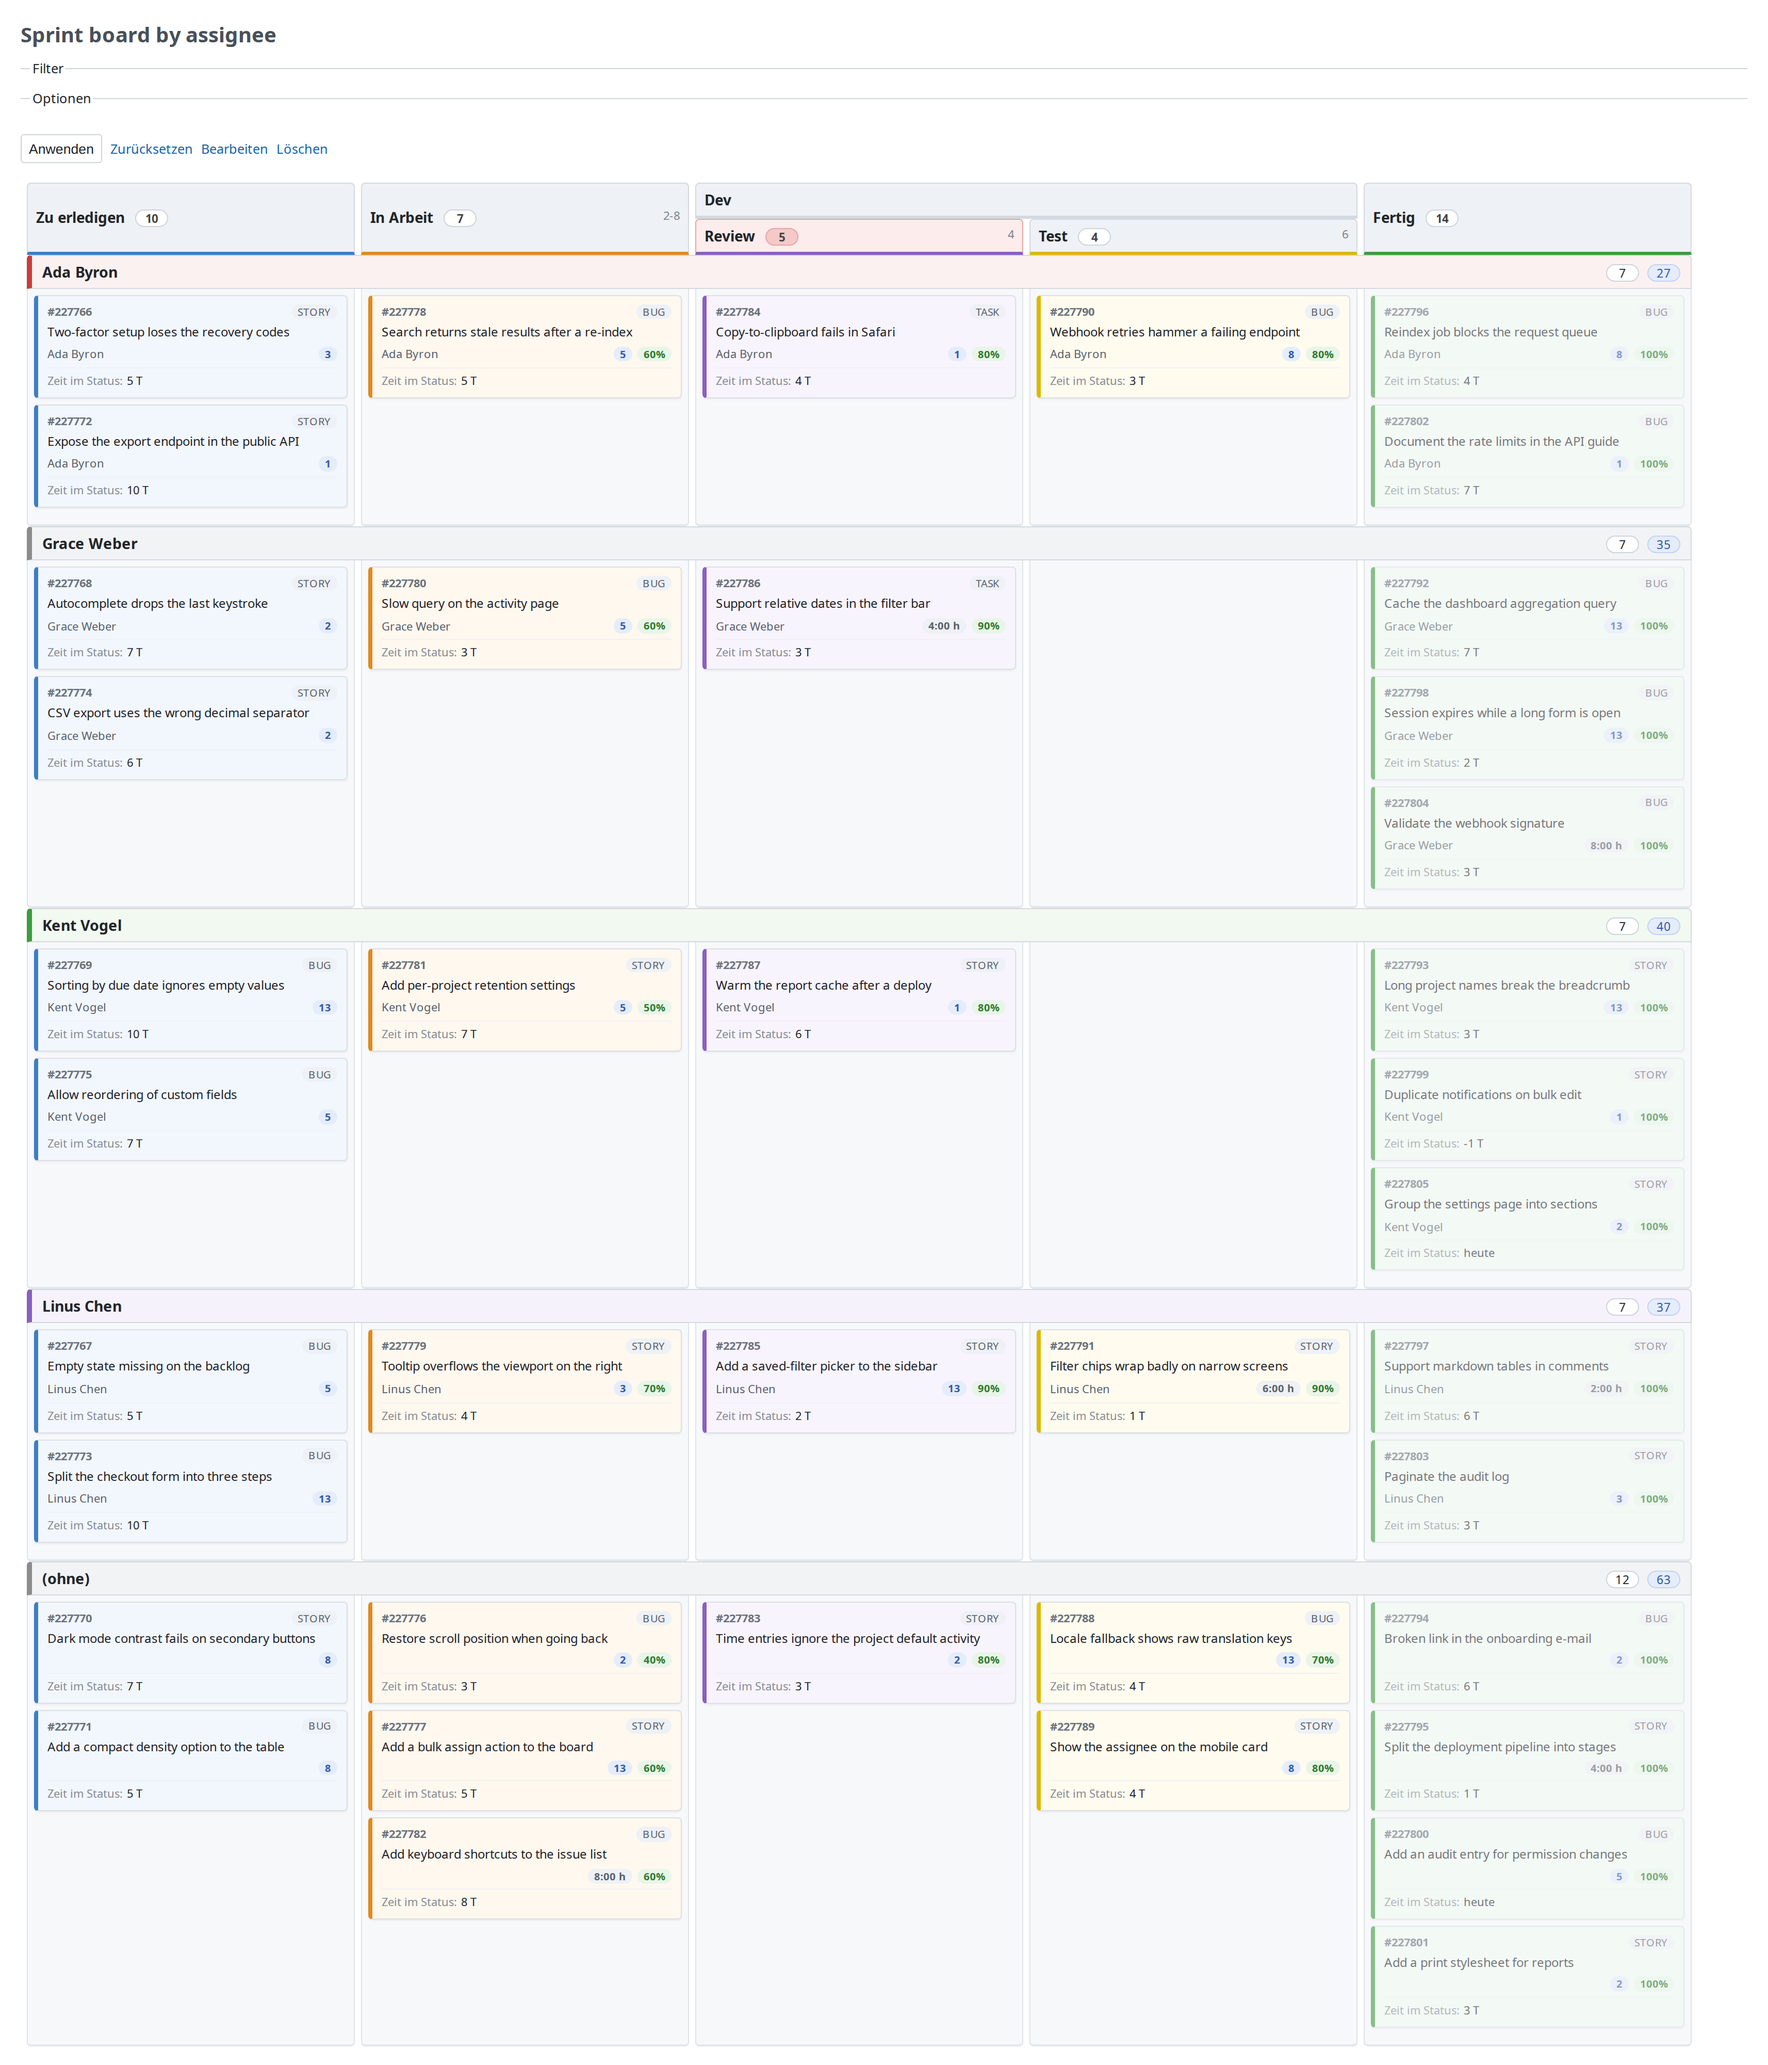
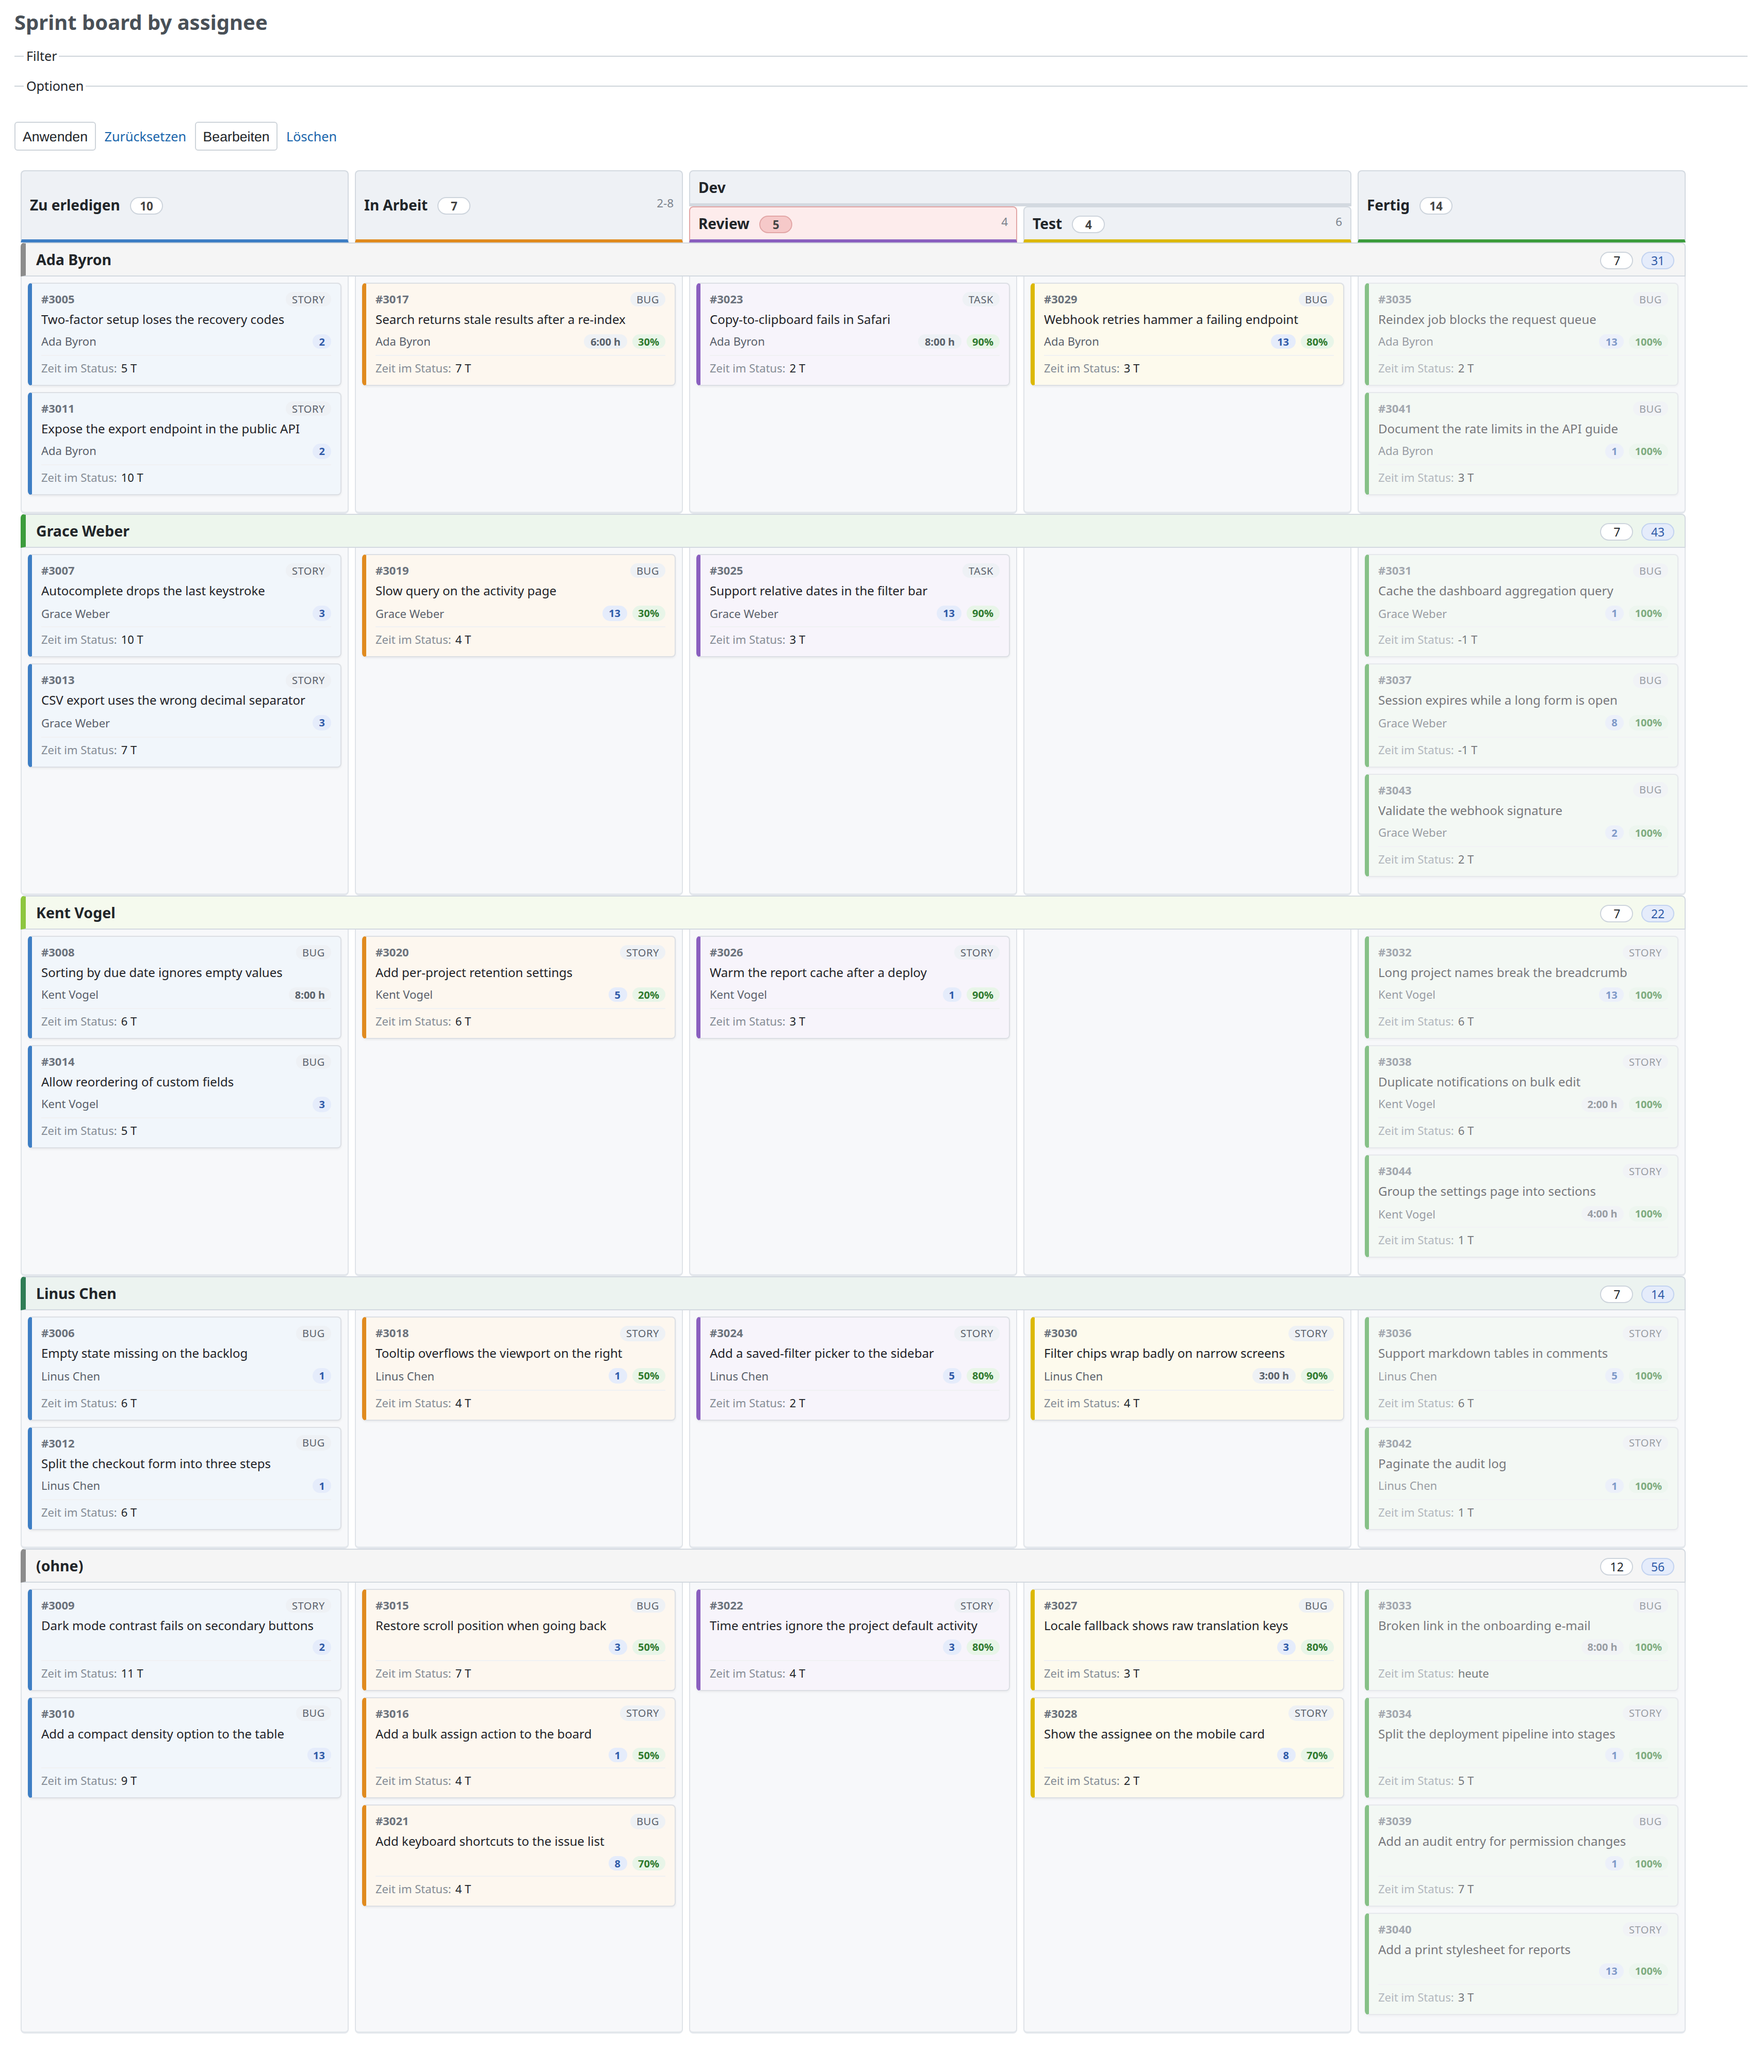
docs: fresh screenshots, including the sprint board
Recaptured against 0.5.0 on a clean demo database, English and German.

- new 11-sprint-board: the board options open on the Sprint selector set to
  "Active sprint" (0.4), placed under the README's sprint-board paragraph
- 01/02/11 boards are captured without the sidebar, so the Done column is
  no longer cut off
- alt texts for 05 (story points) and 06 (burndown start, no sidebar)
  describe the new images

diff --git a/README.de.md b/README.de.md
@@ -99,7 +99,7 @@ Story Points sind eine Spalte der plugineigenen Tabelle, kein benutzerdefinierte
 Ticketformular bietet sie als feste Skala an, direkt neben dem Sprint des Tickets.
 
 ![Ticketformular mit Redmines eigenen Attributfeldern und darunter zwei Feldern des Plugins: ein
-Auswahlfeld Story Points mit dem Wert 5 und ein Auswahlfeld Sprint mit Sprint 24](docs/screenshots/de/05-story-points.png)
+Auswahlfeld Story Points mit dem Wert 2 und ein Auswahlfeld Sprint mit Sprint 24](docs/screenshots/de/05-story-points.png)
 
 ### Sprints
 
@@ -116,6 +116,10 @@ Spalten, Zaehler und Summen umfassen dann nur die Tickets dieses Sprints. Das fu
 per Link — `…/expert_agile/board?set_filter=1&sprint_id=41` oder `sprint_id=active`. Angenommen
 werden nur Sprints, in die das Projekt planen darf; jede andere ID, oder *Aktiver Sprint* ohne
 laufenden Sprint, zeigt ein leeres Board statt aller Tickets.
+
+![Geoeffnete Board-Optionen ueber dem Sprint-Board: Kartenfelder, Darstellung mit der
+Sprint-Auswahl "Aktiver Sprint (automatisch)" und die Statusspalten mit ihren
+WIP-Limits](docs/screenshots/de/11-sprint-board.png)
 
 ### Backlog-Planer
 
@@ -139,9 +143,9 @@ der Kopfzeile](docs/screenshots/de/03-backlog.png)
 Burndown und Burnup rekonstruieren den Ticketverlauf aus den Journalen. Gemessene Linien enden am
 heutigen Tag, die Ideallinie laeuft bis zum Ende des Zeitraums.
 
-![Burndown-Diagramm ueber einen Sprint in Story Points: die Restlinie faellt von 200 Punkten und
-endet heute, darunter eine gestrichelte graue Ideallinie, die zum Sprintende auf null laeuft. Die
-Seitenleiste listet die gespeicherten Diagramme und die Sprints des Projekts](docs/screenshots/de/06-chart-burndown.png)
+![Burndown-Diagramm ueber einen Sprint in Story Points: die Restlinie faellt von rund 165 Punkten
+und endet heute, darunter eine gestrichelte graue Ideallinie, die zum Sprintende auf null
+laeuft](docs/screenshots/de/06-chart-burndown.png)
 
 ![Velocity-Diagramm als gruppierte Balken je Woche, das erstellte gegen abgeschlossene Tickets der
 letzten sechzig Tage stellt](docs/screenshots/de/07-chart-velocity.png)

diff --git a/README.md b/README.md
@@ -88,7 +88,7 @@ Story points are a column of the plugin's own table, not a custom field, and are
 fixed scale on the issue form next to the sprint the issue belongs to.
 
 ![Issue form showing Redmine's own attribute fields above two fields added by the plugin: a Story
-points dropdown set to 5 and a Sprint dropdown set to Sprint 24](docs/screenshots/en/05-story-points.png)
+points dropdown set to 2 and a Sprint dropdown set to Sprint 24](docs/screenshots/en/05-story-points.png)
 
 ### Sprints
 
@@ -104,6 +104,10 @@ has to be re-pointed when the next iteration starts. Columns, counts and totals 
 that sprint's issues. The same works from a link — `…/expert_agile/board?set_filter=1&sprint_id=41`
 or `sprint_id=active`. Only sprints the project may plan into are accepted; any other id, or
 *Active sprint* while none is running, shows an empty board rather than every issue.
+
+![Board options opened above the sprint board: card fields, appearance settings with the Sprint
+selector set to "Active sprint (follows automatically)", and the status columns with their WIP
+limits](docs/screenshots/en/11-sprint-board.png)
 
 ### Backlog planner
 
@@ -125,9 +129,9 @@ days remaining](docs/screenshots/en/03-backlog.png)
 Burndown and burnup replay the issue history from the journals. Measured lines stop at today; the
 ideal line runs to the end of the range.
 
-![Burndown chart over a sprint in story points: the remaining line descends from 200 points and
-stops at today, above a dashed grey ideal line falling to zero at the sprint end. The sidebar
-lists the saved charts and the project's sprints](docs/screenshots/en/06-chart-burndown.png)
+![Burndown chart over a sprint in story points: the remaining line descends from about 165 points
+and stops at today, above a dashed grey ideal line falling to zero at the sprint
+end](docs/screenshots/en/06-chart-burndown.png)
 
 ![Velocity chart as grouped bars per week, comparing issues created against issues closed over
 the last sixty days](docs/screenshots/en/07-chart-velocity.png)
